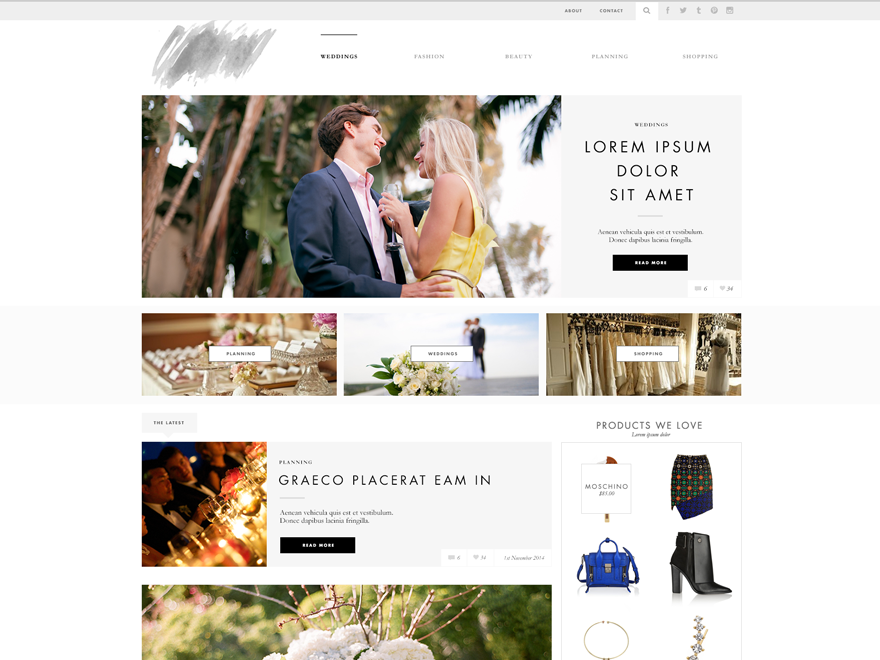
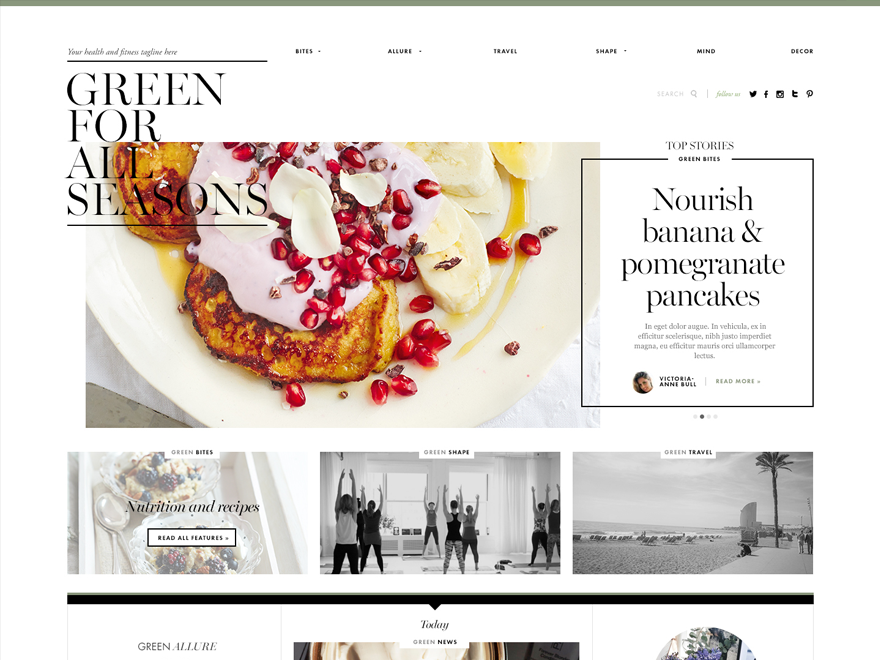
stripped out unnecessary functions

diff --git a/style.css b/style.css
@@ -1,6 +1,6 @@
 /*
-Theme Name: Over the Moon
-Theme URI: http://overthemoonblog.com
+Theme Name: Green for All Seasons: ;
+Theme URI: http://greenforallsesons.com
 Author: DJ Mosca
 Author URI: http://www.mindblownmedia.com
 Description: Wordpress theme for Over the Moon

diff --git a/functions.php b/functions.php
@@ -1,6 +1,6 @@
 <?php
 
-define('THEME_NAME', 'overthemoonblog');
+define('THEME_NAME', 'greenforallsea');
 
 $template_directory = get_template_directory();
 
@@ -38,7 +38,6 @@ add_filter( 'pre_option_link_manager_enabled', '__return_true' );
 
 add_filter( 'comment_form_defaults', 'custom_comment_form_defaults');
 
-add_filter('user_contactmethods','custom_user_contentmethods');
 
 
 
@@ -50,18 +49,12 @@ remove_shortcode('gallery');
 
 add_shortcode( 'gallery', 'custom_gallery' );
 
-add_shortcode( 'user', 'custom_user' );
-
-//add_shortcode( 'phone_number', 'custom_phone_number');
-
 
 function custom_setup_theme() {
 	
 	add_theme_support( 'automatic-feed-links' );
 	
 	add_theme_support( 'post-thumbnails' );
-
-	add_theme_support('woocommerce');
 
 	add_theme_support('editor_style');
 
@@ -70,7 +63,6 @@ function custom_setup_theme() {
 
 	register_nav_menus( array(
 		'header_primary' => __( 'Header - Primary', THEME_NAME ),
-		'header_secondary' => __( 'Header - Secondary', THEME_NAME ),
 		'footer_primary' => __( 'Footer - Primary', THEME_NAME ),
 		'footer_secondary' => __( 'Footer - Secondary', THEME_NAME ),
 	) );
@@ -83,11 +75,9 @@ function custom_init(){
 	global $template_directory;
 
 	require( $template_directory . '/inc/classes/bfi-thumb.php' );
-
-
-	acf_add_options_page();
-
 }
+
+if( function_exists('acf_add_options_page') ) acf_add_options_page();
 
 function custom_wp(){
 	
@@ -103,8 +93,6 @@ function custom_widgets_init() {
 	require( $template_directory . '/inc/widgets/category.php' );
 
 	require( $template_directory . '/inc/widgets/popular-posts.php' );
-
-	require( $template_directory . '/inc/widgets/instagram.php' );
 	
 	register_sidebar( array(
 		'name' => __( 'Default', THEME_NAME ),
@@ -159,8 +147,6 @@ function custom_styles() {
 	wp_enqueue_style( 'style', $template_directory_uri . '/css/style.css' );	
 	wp_enqueue_style( 'fonts', '//fast.fonts.net/cssapi/1989ab9f-02aa-4d8b-8f9c-3bbff4bdb076.css' );	
 
-	wp_dequeue_style('instag-slider');
-
 }
 
 function custom_the_content_feed($content, $type){
@@ -212,30 +198,6 @@ function get_post_images() {
 	return $images;
 }
 
-function get_instagram_images($count, $user_id) {
-	$images = get_transient( 'instagram_images' );
-	
-	//if( $images !== false ) return $images;
-
-	$response = wp_remote_get('https://api.instagram.com/v1/users/'.$user_id.'/media/recent?count='.$count.'&access_token=975210125.a2e2346.7be3fa000252400aacc231aca788fa7a');
-	
-	if ( ! is_wp_error($response)) {
-		$json = json_decode(wp_remote_retrieve_body($response));
-		$data = (isset($json->data)) ? $json->data : null;
-		$images = [];
-
-		foreach($data as $image) {
-			$images[] = array(
-				'url' => $image->images->low_resolution->url,
-				'link' => $image->link
-			);
-		}
-
-		set_transient( 'instagram_images', $images, 60*60*24);
-	}
-
-	return $images;
-}
 
 function get_rs_products($folder, $limit = 100) {
 	$api = RS()->api;
@@ -311,40 +273,4 @@ function custom_gallery( $atts ) {
 		ob_end_clean();
     }
 	return $output;
-}
-
-
-function custom_user( $atts ) {
-
-	$output = '';
-
-    extract(shortcode_atts(array(
-        'id'      => array()
-    ), $atts));
-
-    $user = get_user_by('id', $id);
-    $user_meta = get_user_meta($id);
-   
-    foreach($user_meta as $key => $value) {
-    	if(is_array($value)) {
-    		$user_meta[$key] = $value[0];
-    	}
-    }
-    
-   	if( !empty($user) ){
-   		ob_start();
-	    include_template_part('inc/user', array('user' => $user, 'user_meta' => $user_meta));
-	    $output = ob_get_contents();
-		ob_end_clean();
-    }
-	return $output;
-}
-
-function custom_user_contentmethods( $contactmethods ) {
-	$contactmethods['instagram'] = "Instagram";
-	$contactmethods['job_role'] = "Job role";
-	unset($contactmethods['aim']);
-	unset($contactmethods['jabber']);
-	unset($contactmethods['yim']);
-	return $contactmethods;
 }

diff --git a/footer.php b/footer.php
@@ -4,32 +4,11 @@
  *
  * Contains the closing of the id=main div and all content after
  *
- * @package overthemoonblog
- * @since overthemoonblog 1.0
+ * @package greenforallseasons
+ * @since greenforallseasons 1.0
  */
 ?>
 	</div><!-- #main .site-main -->
-	<?php
-	//$images = get_instagram_images(10, 1523373132);
-	$images = get_instagram_images(10, 1170070486);
-
-	if( !empty($images) ):
-	?>
-	<div id="instagram">
-		<header class="header">
-			<h2 class="title"><?php _e("Instagram", THEME_NAME); ?></h2>
-			<a class="white-btn" href="http://instagram.com/otmblog" target="_blank"><i class="icon-instagram"></i> @otmblog</a>
-		</header>
-		
-		<div class="images clearfix">
-			<?php foreach($images as $image): ?>
-			<a class="image overlay-btn" href="<?php echo $image['link']; ?>" target="_blank">
-				<img src="<?php echo $image['url']; ?>" />
-			</a>
-			<?php endforeach; ?>
-		</div>
-	</div>
-	<?php endif; ?>
 	
 	<footer id="footer" class="site-footer" role="contentinfo">
 		<div class="top">

diff --git a/searchform.php b/searchform.php
@@ -2,8 +2,8 @@
 /**
  * The template for displaying search forms in overthemoonblog
  *
- * @package overthemoonblog
- * @since overthemoonblog 1.0
+ * @package greenforallseasons
+ * @since greenforallseasons 1.0
  */
 ?>
 <form method="get" class="search-form" action="<?php echo esc_url( home_url( '/' ) ); ?>" role="search">

diff --git a/header.php b/header.php
@@ -4,8 +4,8 @@
  *
  * Displays all of the <head> section and everything up till <div id="main">
  *
- * @package overthemoonblog
- * @since overthemoonblog 1.0
+ * @package greenforallseasons
+ * @since greenforallseasons 1.0
  */
 ?>
 <!DOCTYPE html>

diff --git a/sidebar.php b/sidebar.php
@@ -7,8 +7,8 @@
  * and that other 'pages' on your WordPress site will use a
  * different template.
  *
- * @package overthemoonblog
- * @since overthemoonblog 1.0
+ * @package greenforallseasons
+ * @since greenforallseasons 1.0
  */
 ?>
 

diff --git a/404.php b/404.php
@@ -2,8 +2,8 @@
 /**
  * The template for displaying 404 pages (Not Found).
  *
- * @package overthemoonblog
- * @since overthemoonblog 1.0
+ * @package greenforallseasons
+ * @since greenforallseasons 1.0
  */
 
 get_header(); ?>
